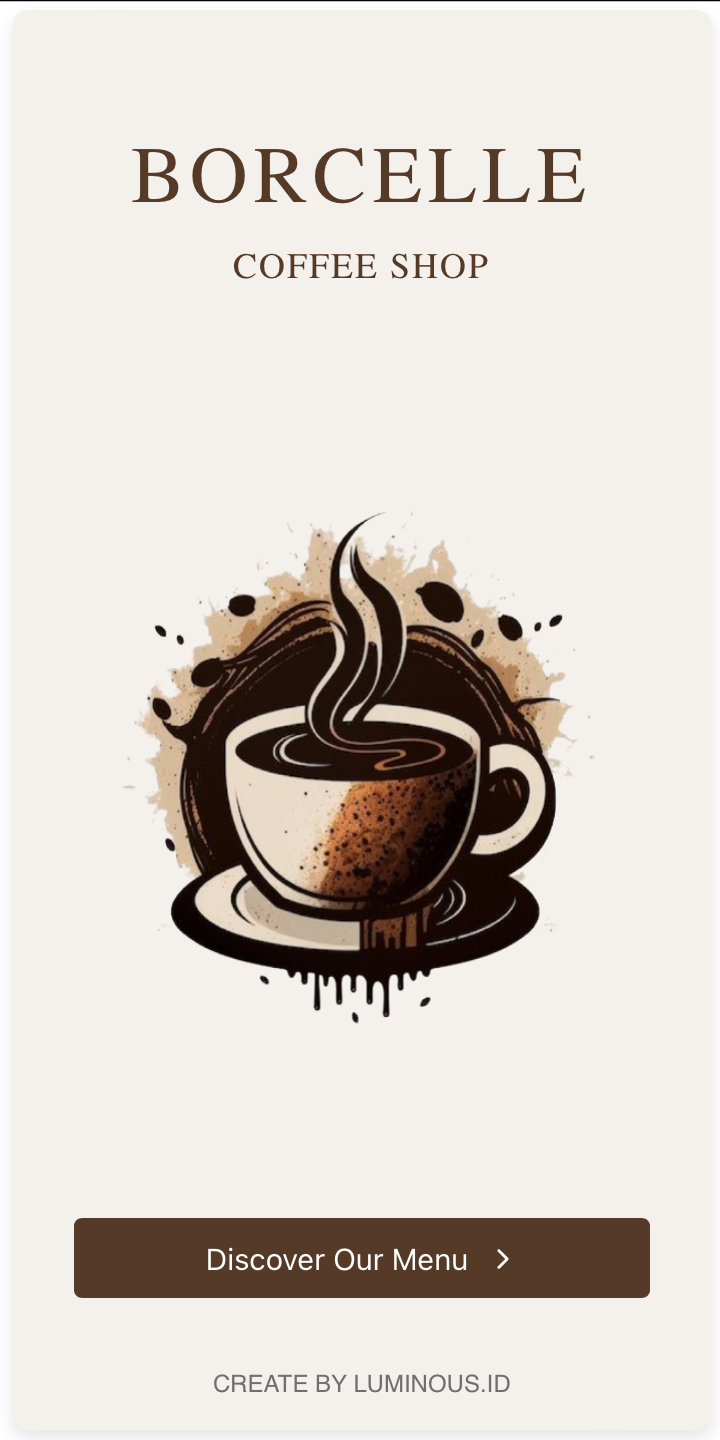
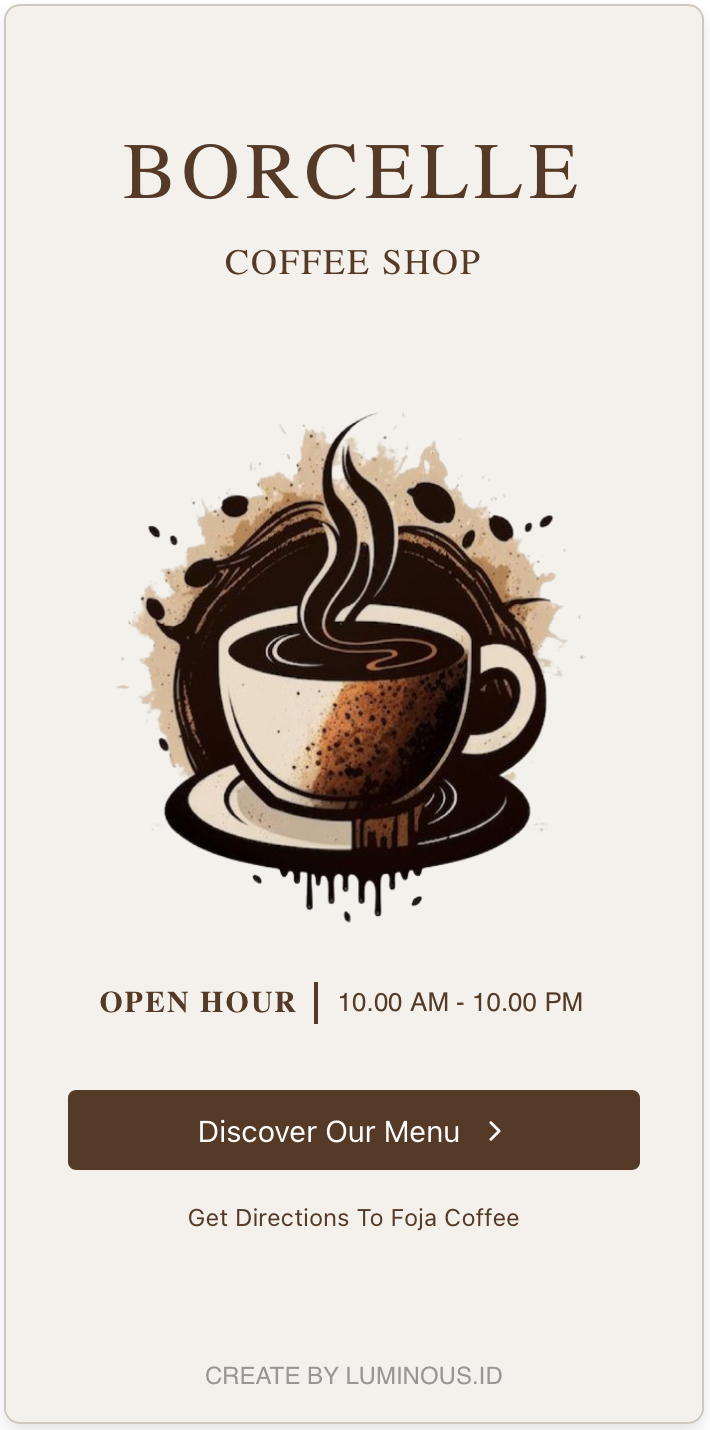
fix:fixed readme

diff --git a/src/notes/Note.jsx b/src/notes/Note.jsx
@@ -1,21 +1,125 @@
-<div className="ml-menu-list">
-            {data.map((menu, index) =>(
-                <div className={`list-box ${index % 2 === 0 ? "bg-cream" : "bg-brown"}`} key={index}>
-                    
-                    {menu.items.map((item, idx) =>(
-                        <div className="list-list" key={idx}>
-                            <div className="list-header">
-                                <h2>{menu.category}</h2>
-                                <div className="size-box">
-                                    <p>{item.sizes.S}</p>
-                                    <p>{item.sizes.M}</p>
-                                    <p>{item.sizes.L}</p>
-                                </div>
-                            </div>
-                            <p>{item.name}</p>
-                        </div>
-                    ))}
-                </div>
-            ))}
-            
+import React, { useState } from 'react'
+import '../Styles/Menu.css'
+import { GiCoffeeBeans } from 'react-icons/gi'
+import { RiSearchLine } from "react-icons/ri";
+import menuData from '../Data/DataCafe.json'
+import { IoIosSnow } from "react-icons/io";
+import { PiThermometerHotFill } from "react-icons/pi";
+import { useNavigate } from 'react-router-dom';
+import { IoChevronBackOutline } from "react-icons/io5";
+
+function Menu() {
+    const [selectedMenu, setSelectedMenu] = useState("Kopi");
+    const [search, setSearch] = useState("");
+    const navigate = useNavigate();
+
+    const currentMenu = menuData.find(
+        (item) => item.category === selectedMenu
+    );
+
+    const filteredMenu = currentMenu?.items.filter((item)=>        
+        item.name.toLocaleLowerCase().includes(search.toLocaleLowerCase())
+    );
+
+
+    const navigateToChoose = () =>{
+        navigate('/choose')
+    }
+
+    const anotherName = [
+        {category: "Kopi", name: "(Coffee)"},
+        {category: "Bukan Kopi", name: "(Non-Coffee)"},
+        {category: "Makanan", name: "(Food)"},
+        {category: "Khas", name: "(Signature)"},
+        {category: "Diseduh", name: "(Manual Brew)"},
+        {category: "Plant Based", name: "(Menu Diet)"},
+        {category: "Additional", name: "(Additional Items)"}
+    ]
+
+  return (
+    <div className='menu-container'>
+
+        {/* 🔙 HEADER */}
+        <div className="menu-header">
+            <button onClick={navigateToChoose}><IoChevronBackOutline/></button>
+            <div className="mid-header">
+                <h2>FOJA COFFEE</h2>
+                <h3>COFFEE SHOP</h3>
+            </div>
+
+            <div className="logo-icon">
+                <GiCoffeeBeans className='icon'/>
+            </div>
         </div>
+
+        <div className="menu-logo">
+            <h2>OUR MENU</h2>
+            
+            <div className="menu-input">
+                <RiSearchLine className='search-icon'/>
+                <input 
+                    type="text" 
+                    placeholder='Search menu item' 
+                    value={search}
+                    onChange={(e) => setSearch(e.target.value)}
+                />
+            </div>
+            <div className="category-button">
+                {menuData.map((cat) =>(
+                    <button 
+                        className={`category-btn ${selectedMenu === cat.category? "active":""}`} 
+                        onClick={()=> setSelectedMenu(cat.category)}>
+                            {cat.category}
+                    </button>
+                ))}
+            </div>
+        </div>
+
+        <div className="menu-category">
+            <div className="menu-items">
+                
+                <div className="title">
+                    <h3>{currentMenu?.category} <span className='title-h3'>{anotherName.find(item => item.category === currentMenu?.category)?.name || ''}</span></h3>
+
+                    {filteredMenu && (
+                        <div className="cat-span">
+                            {filteredMenu.some(item => item.price) ? (
+                            <span>Price</span>
+                            ) : (
+                            <>
+                                <span><IoIosSnow style={{color:'#007acc'}}/> Ice</span>
+                                <span><PiThermometerHotFill style={{color:'#af2005'}}/> Hot</span>
+                            </>
+                            )}
+                        </div>
+                    )}
+                </div>
+
+                {filteredMenu?.map((item) => (
+                <div className="menu-item" key={item.name}>
+                    
+                    <div className="item-name">
+                    <h4>{item.name}</h4>
+
+                    <div className="menu-price">
+                        {item.price ? (
+                        <p className='single-price'>{item.price}</p>
+                        ) : (
+                        <div className='double-price'>
+                            <p>{item.ice || '-'}</p>
+                            <p>{item.hot || '-'}</p>
+                        </div>
+                        )}
+                    </div>
+                    </div>
+
+                </div>
+                ))}
+
+            </div>
+        </div>
+    </div>
+  )
+}
+
+export default Menu

diff --git a/README.md b/README.md
@@ -159,9 +159,10 @@ This project is open-source and available under the MIT License.
 
 
 ## LIVE PREVIRW / Deploy link 
-(https://standard-package-pearl.vercel.app/)
+[https://real-standard-package.vercel.app]
 
 ## Preview 
 ![ Welcome Screen](./public/welcomePic.png)
-![ Menu Screen](./public/menuPic.png)
+![ Category Screen](./public/categoryPic.png)
+![ Menu Screen](./public/menuListPic.png)
 